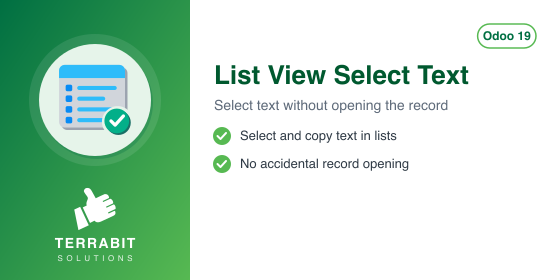
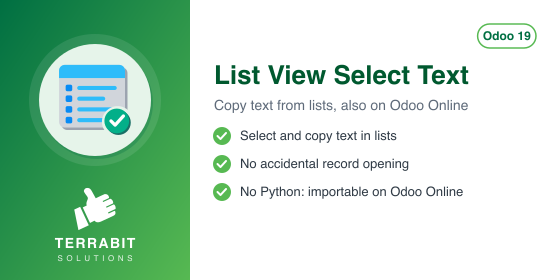
[IMP] deltatech_list_view: data-only module, importable on Odoo Online
The module has only JavaScript and a dark-theme style sheet at runtime;
the empty root __init__.py was removed, so it has no Python code that
runs in Odoo and loads on Odoo Online (Custom plan) from Apps > Import
Module. tests/ stays: the HOOT test is still found (find_spec works on
the namespace package) and passes on a regular install.

The unit test asset is listed by name: an imported module rejects glob
wildcards in asset paths, so the old `static/tests/**/*` would have
failed the import. The obsolete `qweb` key, pointing to a folder that
does not exist, was removed.

Tested on a clean Odoo 19 database without the deltatech addons path:
the zip imports with its four assets, and selecting the email of a
contact in the list keeps the list open (with the list_renderer asset
disabled, the same drag opens the record).

Name "List View Select Text (importable, Odoo Online)"; summary,
banner, DESCRIPTION.md and index.html (tb-gen-index v1.8.0) say it.
oca-checks-odoo-module excludes the module. Consultant sheet (RO) and
USAGE.md (EN) with two screenshots per language; reviewed with
verificator-fisa: clean verdict.

Assisted-by: Claude Opus 5.5

Changed region(s): [[0.3643, 0.6571, 0.8196, 0.7143], [0.3643, 0.3429, 0.85, 0.4]]

diff --git a/deltatech_list_view/static/description/index.html b/deltatech_list_view/static/description/index.html
@@ -5,11 +5,11 @@
     <span class="d-inline-block rounded-4 p-2 flex-shrink-0 my-2" style="background-color:#ffffff;margin-right:24px;"><img src="icon.png" alt="List View Select Text" style="width:80px;height:80px;border:none;"/></span>
     <div class="flex-grow-1 my-2" style="width:320px;min-width:0;margin-right:24px;">
       <h1 class="fw-bold mb-2" style="color:#ffffff;font-size:36px;line-height:1.1;letter-spacing:-0.5px;border:none;">List View Select Text</h1>
-      <p class="mb-3" style="font-size:18px;color:#cdeccf;line-height:1.45;">Select text without opening the record</p>
+      <p class="mb-3" style="font-size:18px;color:#cdeccf;line-height:1.45;">Copy text from lists, also on Odoo Online</p>
       <div>
         <span class="d-inline-block rounded-pill fw-bold me-2 mb-2" style="background-color:#ffffff;border:1px solid #ffffff;color:#006F42;padding:6px 14px;font-size:12px;">Odoo 19.0</span>
         <span class="d-inline-block rounded-pill fw-semibold me-2 mb-2" style="border:1px solid #8fd1ad;color:#ffffff;padding:6px 14px;font-size:12px;">Generic Modules</span>
-        <span class="d-inline-block rounded-pill fw-semibold me-2 mb-2" style="border:1px solid #8fd1ad;color:#ffffff;padding:6px 14px;font-size:12px;">Odoo.sh &bull; On-premise</span>
+        <span class="d-inline-block rounded-pill fw-semibold me-2 mb-2" style="border:1px solid #8fd1ad;color:#ffffff;padding:6px 14px;font-size:12px;">Odoo Online &bull; Odoo.sh &bull; On-premise</span>
         <span class="d-inline-block rounded-pill fw-semibold me-2 mb-2" style="border:1px dashed #8fd1ad;color:#ffffff;padding:6px 14px;font-size:12px;">OPL-1</span>
       </div>
     </div>
@@ -35,6 +35,11 @@
        style="padding:10px 22px;">Overview</a>
   </li>
   <li class="nav-item mx-1 mb-2">
+    <a class="nav-link fw-semibold rounded-pill border" id="tb-tab-usage"
+       data-bs-toggle="pill" data-bs-target="#tb-panel-usage" href="#tb-panel-usage"
+       style="padding:10px 22px;">Usage</a>
+  </li>
+  <li class="nav-item mx-1 mb-2">
     <a class="nav-link fw-semibold rounded-pill border" id="tb-tab-versions"
        data-bs-toggle="pill" data-bs-target="#tb-panel-versions" href="#tb-panel-versions"
        style="padding:10px 22px;">Versions</a>
@@ -55,9 +60,44 @@
 <li>Stergerea de doua ori a unei linii one2many nesalvate nu mai blocheaza salvarea formularului
   cu eroarea <code class="border rounded px-2" style="font-family:ui-monospace,SFMono-Regular,Menlo,Consolas,monospace;font-size:13px;">virtual_N</code></li>
 </ul>
+<h1 class="fw-bold mt-4 mb-3" style="border:none;border-left:4px solid #57B952;padding-left:16px;font-size:24px;letter-spacing:-0.3px;line-height:1.2;">Odoo Online</h1>
+<p>The module contains no Python code at runtime, only JavaScript and a style sheet (the <code class="border rounded px-2" style="font-family:ui-monospace,SFMono-Regular,Menlo,Consolas,monospace;font-size:13px;">tests/</code>
+folder runs the JavaScript test in CI and is not part of the import). Besides Odoo.sh and
+on-premise installations, it can be used on Odoo Online (Custom plan): download the zip and load
+it from <strong>Apps &gt; Import Module</strong>.</p>
+</div>
+<div class="tab-pane fade py-2" id="tb-panel-usage" style="font-size:16px;line-height:1.65;color:#212529;font-weight:400;">
+<h2 class="fw-bold mb-3" style="border:none;border-left:4px solid #57B952;padding-left:16px;font-size:24px;letter-spacing:-0.3px;line-height:1.2;">Usage</h2>
+<ol>
+<li>Install the module, or on Odoo Online import the zip from <strong>Apps &gt; Import Module</strong>
+   (Custom plan, developer mode), then reload the page. There is nothing to configure.</li>
+<li>Open any list, for example <strong>Contacts &gt; Contacts</strong> in the list view. Press the mouse button at
+   the start of a value (an email, a phone, a reference), drag to its end and release: the text
+   stays selected and the record does not open. Copy it with Ctrl+C.</li>
+</ol>
+<p><img class="img-fluid d-block" style="max-width:100%;height:auto;" alt="Contacts list view: in the row TEST Northwind Builders Ltd the email office@northwind.test is selected and the list is still displayed" src="en/01_selectare_text_lista.png" /></p>
+<ol start="3">
+<li>Click a row without selecting text: the record opens as usual.</li>
+</ol>
+<p><img class="img-fluid d-block" style="max-width:100%;height:auto;" alt="The form of TEST Northwind Builders Ltd, opened by a plain click on its row" src="en/02_clic_deschide_inregistrarea.png" /></p>
+<p>The module also fixes the save of a form after an unsaved one2many line was deleted twice (for
+example with Enter pressed twice on its trash icon), which failed with a <code class="border rounded px-2" style="font-family:ui-monospace,SFMono-Regular,Menlo,Consolas,monospace;font-size:13px;">virtual_N</code> error. In the
+dark theme, it removes the light background of images in forms and kanban views.</p>
 </div>
 <div class="tab-pane fade py-2" id="tb-panel-versions" style="font-size:16px;line-height:1.65;color:#212529;font-weight:400;">
 <h2 class="fw-bold mb-3" style="border:none;border-left:4px solid #57B952;padding-left:16px;font-size:24px;letter-spacing:-0.3px;line-height:1.2;">Versions</h2>
+<h2 class="fw-bold mt-4 mb-3" style="border:none;border-left:4px solid #57B952;padding-left:16px;font-size:24px;letter-spacing:-0.3px;line-height:1.2;">19.0.1.1.0 (2026-11-08)</h2>
+<ul>
+<li>Data-only module: the empty <code class="border rounded px-2" style="font-family:ui-monospace,SFMono-Regular,Menlo,Consolas,monospace;font-size:13px;">__init__.py</code> was removed, so the module has no Python code at
+  runtime (<code class="border rounded px-2" style="font-family:ui-monospace,SFMono-Regular,Menlo,Consolas,monospace;font-size:13px;">tests/</code> stays, for the JavaScript test in CI). It can be installed on Odoo Online
+  (Custom plan) as a zip from Apps &gt; Import Module, as well as on Odoo.sh and on-premise.</li>
+<li>The JavaScript test is listed by name in the manifest assets: an imported module does not
+  accept wildcards (<code class="border rounded px-2" style="font-family:ui-monospace,SFMono-Regular,Menlo,Consolas,monospace;font-size:13px;">**/*</code>) in asset paths. The obsolete <code class="border rounded px-2" style="font-family:ui-monospace,SFMono-Regular,Menlo,Consolas,monospace;font-size:13px;">qweb</code> key, pointing to a folder that
+  does not exist, was removed.</li>
+<li>Odoo Apps does not mark data-only modules as available on Odoo Online, so the module name,
+  the summary, the banner and the Apps Store page now say it: "List View Select Text
+  (importable, Odoo Online)".</li>
+</ul>
 <h2 class="fw-bold mt-4 mb-3" style="border:none;border-left:4px solid #57B952;padding-left:16px;font-size:24px;letter-spacing:-0.3px;line-height:1.2;">19.0.1.0.5 (2026-10-19)</h2>
 <ul>
 <li>Fixed the <code class="border rounded px-2" style="font-family:ui-monospace,SFMono-Regular,Menlo,Consolas,monospace;font-size:13px;">invalid input syntax for type integer: "virtual_N"</code> error when saving a form
@@ -174,7 +214,7 @@
               <span class="d-block" style="font-size:13px;color:#3d4752;">Generic Modules</span>
             </span>
           </div>
-          <p class="mb-0" style="font-size:15px;line-height:1.45;color:#3d4752;">Keep CMRs, certificates and other shipping documents in one place</p>
+          <p class="mb-0" style="font-size:15px;line-height:1.45;color:#3d4752;">See the files attached to orders, transfers and invoices from any of them</p>
         </div>
       </a>
     </div>
@@ -234,7 +274,7 @@
               <span class="d-block" style="font-size:13px;color:#3d4752;">Generic Modules</span>
             </span>
           </div>
-          <p class="mb-0" style="font-size:15px;line-height:1.45;color:#3d4752;">Payment analysis report by journal and period, with a filter wizard</p>
+          <p class="mb-0" style="font-size:15px;line-height:1.45;color:#3d4752;">Customer receipts by payment and invoice journal over a period, with a filter wizard</p>
         </div>
       </a>
     </div>

diff --git a/deltatech_list_view/__manifest__.py b/deltatech_list_view/__manifest__.py
@@ -2,16 +2,15 @@
 # See README.rst file on addons root folder for license details
 
 {
-    "name": "List View Select Text",
-    "summary": "Select text in list views without opening the record",
-    "version": "19.0.1.0.5",
+    "name": "List View Select Text (importable, Odoo Online)",
+    "summary": "Select text in list views without opening the record; data-only, importable on Odoo Online",
+    "version": "19.0.1.1.0",
     "author": "Terrabit, Dorin Hongu",
     "website": "https://www.terrabit.ro",
     "category": "Generic Modules",
     "depends": ["web"],
     "license": "OPL-1",
     "data": [],
-    "qweb": ["static/src/xml/*.xml"],
     "images": ["static/description/main_screenshot.png"],
     "assets": {
         "web.assets_backend": [
@@ -19,7 +18,7 @@
             "deltatech_list_view/static/src/js/static_list.esm.js",
         ],
         "web.assets_web_dark": ["deltatech_list_view/static/src/scss/style_dark.scss"],
-        "web.assets_unit_tests": ["deltatech_list_view/static/tests/**/*"],
+        "web.assets_unit_tests": ["deltatech_list_view/static/tests/static_list_delete.test.js"],
     },
     "development_status": "Production/Stable",
 }

diff --git a/deltatech_list_view/readme/FISA_CONSULTANT.md b/deltatech_list_view/readme/FISA_CONSULTANT.md
@@ -1,0 +1,133 @@
+# Fișă Modul: Selectarea textului în liste fără deschiderea înregistrării
+
+**Modul:** `deltatech_list_view`
+**Utilizator principal:** Toți utilizatorii care copiază date din liste (emailuri, telefoane, coduri, referințe)
+**Prioritate:** 🟢 Scăzută (schimbă doar comportamentul clicului în liste, nu datele)
+
+---
+
+## 1. Scop business
+
+În listele Odoo, un clic pe un rând deschide înregistrarea. Când utilizatorul vrea doar să copieze
+un email, un telefon sau un cod dintr-o celulă și selectează textul cu mouse-ul, eliberarea
+butonului este tot un clic, iar Odoo deschide formularul și pierde selecția. Modulul verifică dacă
+există text selectat la momentul clicului: dacă da, lista rămâne pe ecran și textul poate fi copiat;
+dacă nu, clicul deschide înregistrarea, ca de obicei.
+
+Modulul mai corectează o eroare din liniile de tip tabel ale formularelor (one2many): o linie nouă,
+încă nesalvată, ștearsă de două ori (de exemplu cu Enter apăsat de două ori pe coșul de gunoi), nu
+mai blochează salvarea formularului cu eroarea `virtual_N`. Cazul tipic este returul unui
+transfer, ale cărui linii vin precompletate și nesalvate.
+
+În tema întunecată, foaia de stil a modulului scoate fundalul imaginilor din formulare și din
+vizualizarea kanban, ca să nu mai apară pe un dreptunghi deschis la culoare.
+
+Modulul nu are cod Python care rulează în Odoo, doar JavaScript și o foaie de stil; dosarul
+`tests/` conține testul automat al părții JavaScript și nu se importă. Pe lângă Odoo.sh și
+instalările proprii, se poate folosi și pe Odoo Online (planul Custom), încărcat ca arhivă zip: cu
+modul dezvoltator activ, din **Aplicații → Importați Modulul**.
+
+## 2. Bază legală și context
+
+Modulul nu are bază legală. Contextul este ergonomia lucrului zilnic în liste: copierea rapidă a
+datelor de contact sau a referințelor în emailuri, mesaje sau alte aplicații.
+
+## 3. Utilizatori și roluri
+
+| Rol | Ce face |
+|---|---|
+| Orice utilizator intern | Selectează și copiază text din celulele listelor; deschide înregistrarea cu un clic simplu |
+| Administrator | Instalează sau importă modulul; nu are nimic de configurat |
+
+Modulul nu adaugă grupuri de drepturi. Pentru testare ajunge un utilizator administrator.
+
+## 4. Conturi și date implicate
+
+Nu se folosesc conturi contabile și nu se generează note contabile. Pentru demo ajunge o listă cu
+câteva înregistrări care au text de copiat, de exemplu lista din aplicația **Contacte** cu firme care
+au email și telefon (în capturi: *TEST Mobila Banat SRL*).
+
+## 5. Configurare inițială
+
+1. Instalați modulul `deltatech_list_view` (depinde doar de `web`). Pe Odoo Online, activați modul
+   dezvoltator și încărcați arhiva zip din **Aplicații → Importați Modulul**.
+2. Reîncărcați pagina în browser, ca să se încarce noile fișiere. Nu există setări.
+
+## 6. Flux de utilizare
+
+### Pasul 1 — Selectarea textului dintr-o celulă
+
+Deschideți **Contacte → Contacte** și treceți pe vizualizarea listă. Țineți apăsat butonul
+mouse-ului la începutul emailului unei firme, trageți până la sfârșitul lui și eliberați. Textul
+rămâne selectat, iar lista rămâne pe ecran: formularul firmei nu se deschide. Copiați textul cu
+Ctrl+C (Cmd+C pe Mac). La fel se comportă orice listă din Odoo: comenzi, facturi, produse, transferuri.
+
+![Lista Contacte în vizualizarea listă, cu coloanele Nume, Email, Telefon, Activități și Țară; în rândul TEST Mobila Banat SRL, emailul vanzari@mobilabanat.test este selectat (evidențiat cu albastru), iar lista a rămas deschisă](../static/description/01_selectare_text_lista.png)
+
+### Pasul 2 — Deschiderea înregistrării cu un clic simplu
+
+Faceți clic pe un rând fără să selectați text: Odoo deschide formularul înregistrării, ca înainte de
+instalarea modulului.
+
+![Formularul firmei TEST Mobila Banat SRL deschis după un clic simplu pe rândul ei din listă: emailul vanzari@mobilabanat.test, telefonul +40 256 444 555, orașul Timișoara și țara România; în bara de sus, Contacte și poziția 4 / 7](../static/description/02_clic_deschide_inregistrarea.png)
+
+### Note de monografie și raportare
+
+Modulul nu generează note contabile (Dr/Cr): schimbă doar comportamentul clicului în liste.
+
+## 7. Legături cu alte module / declarații
+
+| Modul | Rol |
+|---|---|
+| `web` | Listele și liniile de tip tabel din formulare, pe care modulul le modifică |
+| Toate aplicațiile (Vânzări, Achiziții, Facturare, Stoc, Contacte) | Listele lor păstrează selecția textului |
+| `base_import_module` | Importul arhivei zip pe Odoo Online |
+
+**Ce e automat:** în toate listele, un clic cu text selectat nu mai deschide înregistrarea; ștergerea
+repetată a unei linii nesalvate nu mai trimite serverului o comandă de ștergere greșită; în tema
+întunecată, imaginile din formulare și din kanban nu mai au fundal.
+
+**Ce rămâne manual:** copierea textului selectat (Ctrl+C).
+
+## 8. Verificări pentru consultant
+
+- [ ] Într-o listă, selectarea cu mouse-ul a textului dintr-o celulă nu deschide înregistrarea, iar
+  textul rămâne selectat.
+- [ ] Textul selectat se poate copia și lipi în altă aplicație.
+- [ ] Un clic simplu pe un rând, fără text selectat, deschide înregistrarea.
+- [ ] Cu aplicația Inventar instalată, deschideți un transfer validat și apăsați **Retur**. În
+  fereastra de retur, mutați focusul cu Tab pe coșul de gunoi al unei linii și apăsați Enter de
+  două ori, rapid; apoi confirmați returul: salvarea nu se blochează cu eroarea `virtual_N`.
+- [ ] În tema întunecată, imaginile din formulare și din kanban nu au fundal deschis la culoare.
+- [ ] Pe Odoo Online, după importul arhivei zip (modul dezvoltator, **Aplicații → Importați
+  Modulul**), modulul apare în **Aplicații** și selecția funcționează după reîncărcarea paginii.
+
+## 9. Mesaje de eroare frecvente
+
+| Mesaj | Cauză | Remediere |
+|---|---|---|
+| Înregistrarea se deschide în continuare la selectarea textului | Browserul folosește încă fișierele vechi | Reîncărcați pagina (în ultimă instanță, cu golirea cache-ului) |
+| *invalid input syntax for type integer: "virtual_N"* la salvarea unui formular | Modulul nu e instalat (sau e o versiune mai veche de 19.0.1.0.5) și o linie nesalvată a fost ștearsă de două ori | Instalați modulul sau actualizați-l; până atunci, abandonați modificările și refaceți liniile |
+| La import: *The assets path in the manifest of imported module ... cannot contain glob wildcards* | Arhiva provine dintr-o versiune mai veche a modulului, care încărca testul JavaScript cu `**/*` | Folosiți versiunea 19.0.1.1.0 sau mai nouă |
+
+## 10. Capturi de ecran
+
+Capturile sunt în `static/description/` (cele în engleză, pentru `readme/USAGE.md`, în
+`static/description/en/`), făcute în română pe o bază de test cu modulul importat din zip și
+aplicația **Contacte** instalată:
+
+| Fișier | Ce arată |
+|---|---|
+| `01_selectare_text_lista.png` | Lista Contacte cu emailul unei firme selectat și lista rămasă deschisă |
+| `02_clic_deschide_inregistrarea.png` | Formularul firmei, deschis după un clic simplu pe rândul ei |
+
+Modulul nu are `tests/test_screenshots.py`: capturile s-au făcut cu Playwright, pe lista din
+aplicația **Contacte**. Testul din `tests/test_js.py` rulează doar testul JavaScript al ștergerii
+liniilor nesalvate.
+
+## 11. Observații pentru manual
+
+- Modulul se aplică tuturor listelor, nu doar contactelor, inclusiv liniilor editabile din
+  formulare: cu text selectat, clicul nu intră în editarea liniei.
+- Corecția pentru liniile nesalvate nu se vede în interfață: împiedică doar o eroare la salvare.
+- Pe Odoo Online, importul unui modul cere planul Custom.

diff --git a/deltatech_list_view/readme/USAGE.md b/deltatech_list_view/readme/USAGE.md
@@ -1,0 +1,15 @@
+1. Install the module, or on Odoo Online import the zip from **Apps > Import Module**
+   (Custom plan, developer mode), then reload the page. There is nothing to configure.
+2. Open any list, for example **Contacts > Contacts** in the list view. Press the mouse button at
+   the start of a value (an email, a phone, a reference), drag to its end and release: the text
+   stays selected and the record does not open. Copy it with Ctrl+C.
+
+   ![Contacts list view: in the row TEST Northwind Builders Ltd the email office@northwind.test is selected and the list is still displayed](static/description/en/01_selectare_text_lista.png)
+
+3. Click a row without selecting text: the record opens as usual.
+
+   ![The form of TEST Northwind Builders Ltd, opened by a plain click on its row](static/description/en/02_clic_deschide_inregistrarea.png)
+
+The module also fixes the save of a form after an unsaved one2many line was deleted twice (for
+example with Enter pressed twice on its trash icon), which failed with a `virtual_N` error. In the
+dark theme, it removes the light background of images in forms and kanban views.

diff --git a/deltatech_list_view/readme/HISTORY.md b/deltatech_list_view/readme/HISTORY.md
@@ -1,3 +1,15 @@
+## 19.0.1.1.0 (2026-11-08)
+
+- Data-only module: the empty `__init__.py` was removed, so the module has no Python code at
+  runtime (`tests/` stays, for the JavaScript test in CI). It can be installed on Odoo Online
+  (Custom plan) as a zip from Apps > Import Module, as well as on Odoo.sh and on-premise.
+- The JavaScript test is listed by name in the manifest assets: an imported module does not
+  accept wildcards (`**/*`) in asset paths. The obsolete `qweb` key, pointing to a folder that
+  does not exist, was removed.
+- Odoo Apps does not mark data-only modules as available on Odoo Online, so the module name,
+  the summary, the banner and the Apps Store page now say it: "List View Select Text
+  (importable, Odoo Online)".
+
 ## 19.0.1.0.5 (2026-10-19)
 
 - Fixed the `invalid input syntax for type integer: "virtual_N"` error when saving a form

diff --git a/deltatech_list_view/readme/DESCRIPTION.md b/deltatech_list_view/readme/DESCRIPTION.md
@@ -9,3 +9,11 @@ Functions:
 - Blocheaza deschiderea unui item din lista la selecta unui text
 - Stergerea de doua ori a unei linii one2many nesalvate nu mai blocheaza salvarea formularului
   cu eroarea `virtual_N`
+
+Odoo Online
+===========
+
+The module contains no Python code at runtime, only JavaScript and a style sheet (the `tests/`
+folder runs the JavaScript test in CI and is not part of the import). Besides Odoo.sh and
+on-premise installations, it can be used on Odoo Online (Custom plan): download the zip and load
+it from **Apps > Import Module**.
